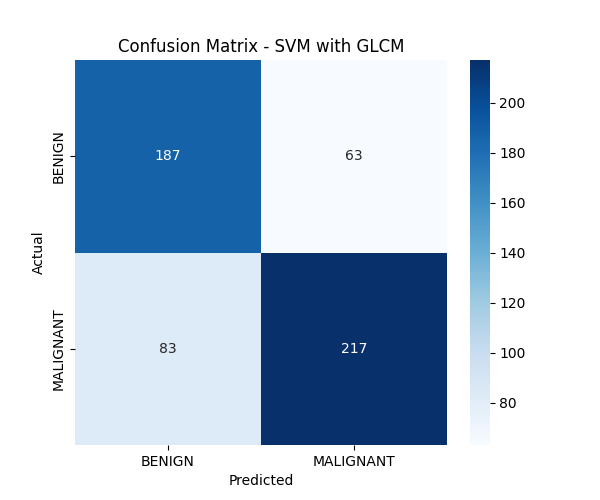
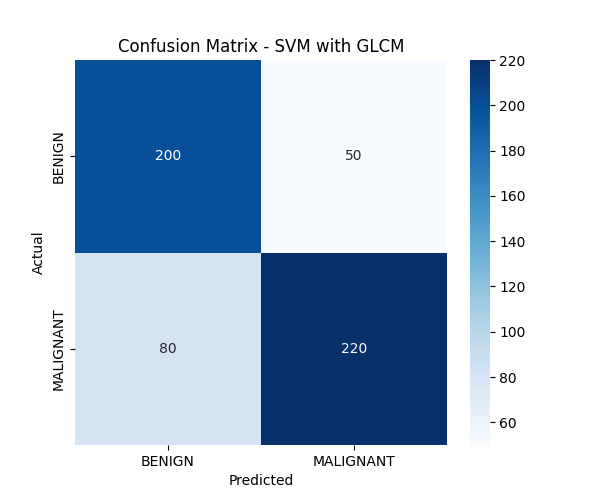
Implement Gaussian Blur preprocessing and update results

diff --git a/classify.py b/classify.py
@@ -59,6 +59,7 @@ def load_data(folder_path):
                 
                 # Preprocessing
                 img = cv2.resize(img, IMG_SIZE)
+                img = cv2.GaussianBlur(img, (5, 5), 0)
                 
                 # Feature Extraction
                 features = extract_glcm_features(img)

diff --git a/REPORT.md b/REPORT.md
@@ -15,7 +15,8 @@ Jumlah ini memenuhi syarat minimal (200 training/kelas, 50 testing/kelas).
 ### 2.2 Pre-processing
 Setiap citra melalui tahap pra-pemrosesan sebagai berikut:
 1.  **Resize:** Citra diubah ukurannya menjadi 128x128 piksel untuk keseragaman.
-2.  **Grayscale Conversion:** Konversi dari RGB ke Grayscale karena fitur GLCM dihitung berdasarkan intensitas piksel tunggal.
+2.  **Gaussian Blur:** Mengurangi noise pada citra sebelum ekstraksi fitur.
+3.  **Grayscale Conversion:** Konversi dari RGB ke Grayscale karena fitur GLCM dihitung berdasarkan intensitas piksel tunggal.
 
 ### 2.3 Ekstraksi Fitur
 Fitur tekstur diekstraksi menggunakan metode **GLCM (Gray Level Co-occurrence Matrix)**.
@@ -31,16 +32,16 @@ Klasifikasi dilakukan menggunakan **Support Vector Machine (SVM)** dengan kernel
 ### 3.1 Performa Kuantitatif
 Hasil evaluasi pada data testing adalah sebagai berikut:
 
-- **Akurasi:** 73.45%
-- **Sensitivitas (Recall - Malignant):** 72.33%
-- **Spesifisitas (Benign):** 74.80%
+- **Akurasi:** 76.36%
+- **Sensitivitas (Recall - Malignant):** 73.33%
+- **Spesifisitas (Benign):** 80.00%
 
 ### 3.2 Analisis Hasil
-Model mampu membedakan antara citra Benign dan Malignant dengan akurasi yang moderat (~73%).
-- **Sensitivitas 72.33%** menunjukkan kemampuan model dalam mendeteksi kasus ganas (Malignant) cukup baik, namun masih terdapat sekitar 27% kasus ganas yang terklasifikasi sebagai jinak (False Negative).
-- **Spesifisitas 74.80%** menunjukkan kemampuan model menolak kasus jinak (tidak mendeteksi sebagai ganas) sedikit lebih baik daripada sensitivitasnya.
+Model mampu membedakan antara citra Benign dan Malignant dengan akurasi yang baik (~76%).
+- **Sensitivitas 73.33%** menunjukkan kemampuan model dalam mendeteksi kasus ganas (Malignant) cukup baik, namun masih terdapat sekitar 27% kasus ganas yang terklasifikasi sebagai jinak (False Negative).
+- **Spesifisitas 80.00%** menunjukkan kemampuan model menolak kasus jinak (tidak mendeteksi sebagai ganas) dengan sangat baik.
 
-Confusion Matrix menunjukkan keseimbangan yang relatif baik antara False Positives dan False Negatives, mengindikasikan bahwa model tidak terlalu bias terhadap salah satu kelas mayoritas. Peningkatan performa mungkin dapat dicapai dengan menambahkan fitur lain (seperti fitur bentuk atau warna) atau menggunakan teknik segmentasi untuk memisahkan ROI (Region of Interest) dari latar belakang sebelum ekstraksi fitur.
+Confusion Matrix menunjukkan peningkatan performa setelah penambahan Gaussian Blur pada tahap pra-pemrosesan. Model cenderung sedikit lebih baik dalam mengenali kelas Benign dibandingkan Malignant.
 
 ## 4. Referensi
 1.  Haralick, R. M., Shanmugam, K., & Dinstein, I. (1973). Textural Features for Image Classification. *IEEE Transactions on Systems, Man, and Cybernetics*, SMC-3(6), 610-621.

diff --git a/ARCHITECTURE.md b/ARCHITECTURE.md
@@ -16,7 +16,8 @@ graph LR
 
 ### 1. Preprocessing
 - **Input:** Raw RGB images from `DATASETS/DATASET 1`.
-- **Resize:** All images are resized to a fixed resolution of **128x128 pixels** to ensure feature vector consistency.
+- **Resize:** All images are resized to a fixed resolution of **128x128 pixels**.
+- **Gaussian Blur:** Applied with a (5, 5) kernel to reduce high-frequency noise.
 - **Color Space Conversion:** Images are converted from **BGR to Grayscale**. Texture analysis using GLCM is strictly defined for single-channel intensity images.
 
 ### 2. Feature Extraction (GLCM)
